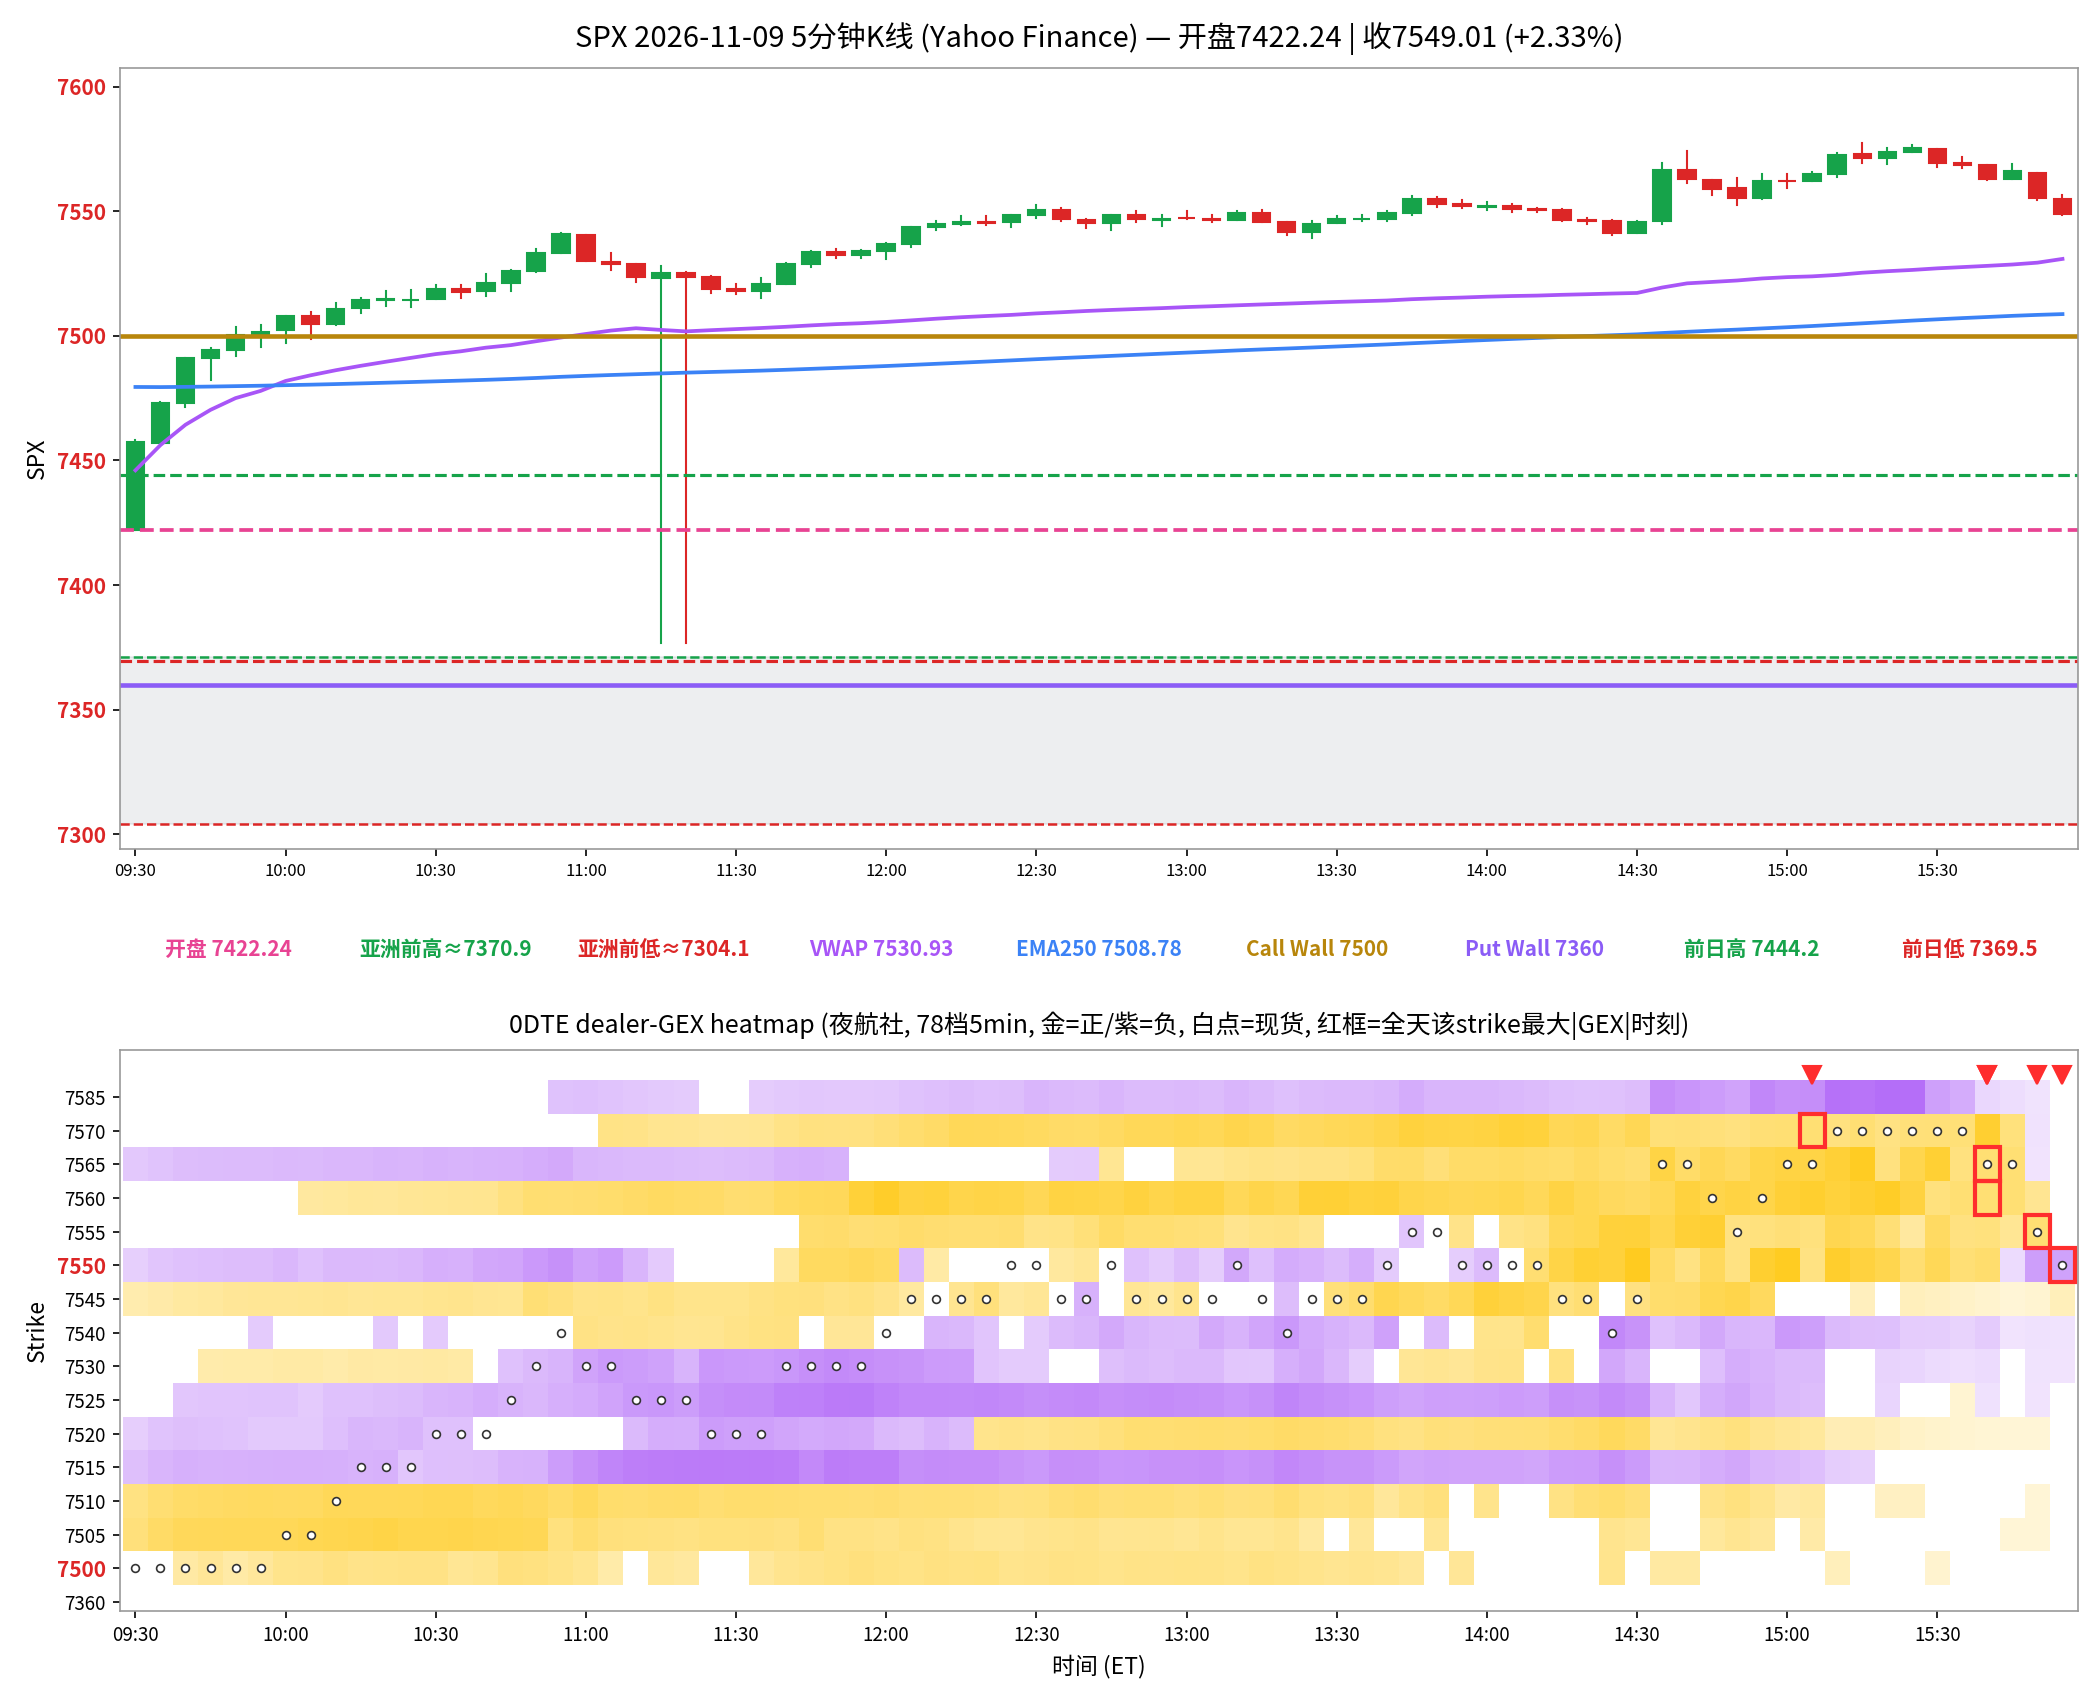
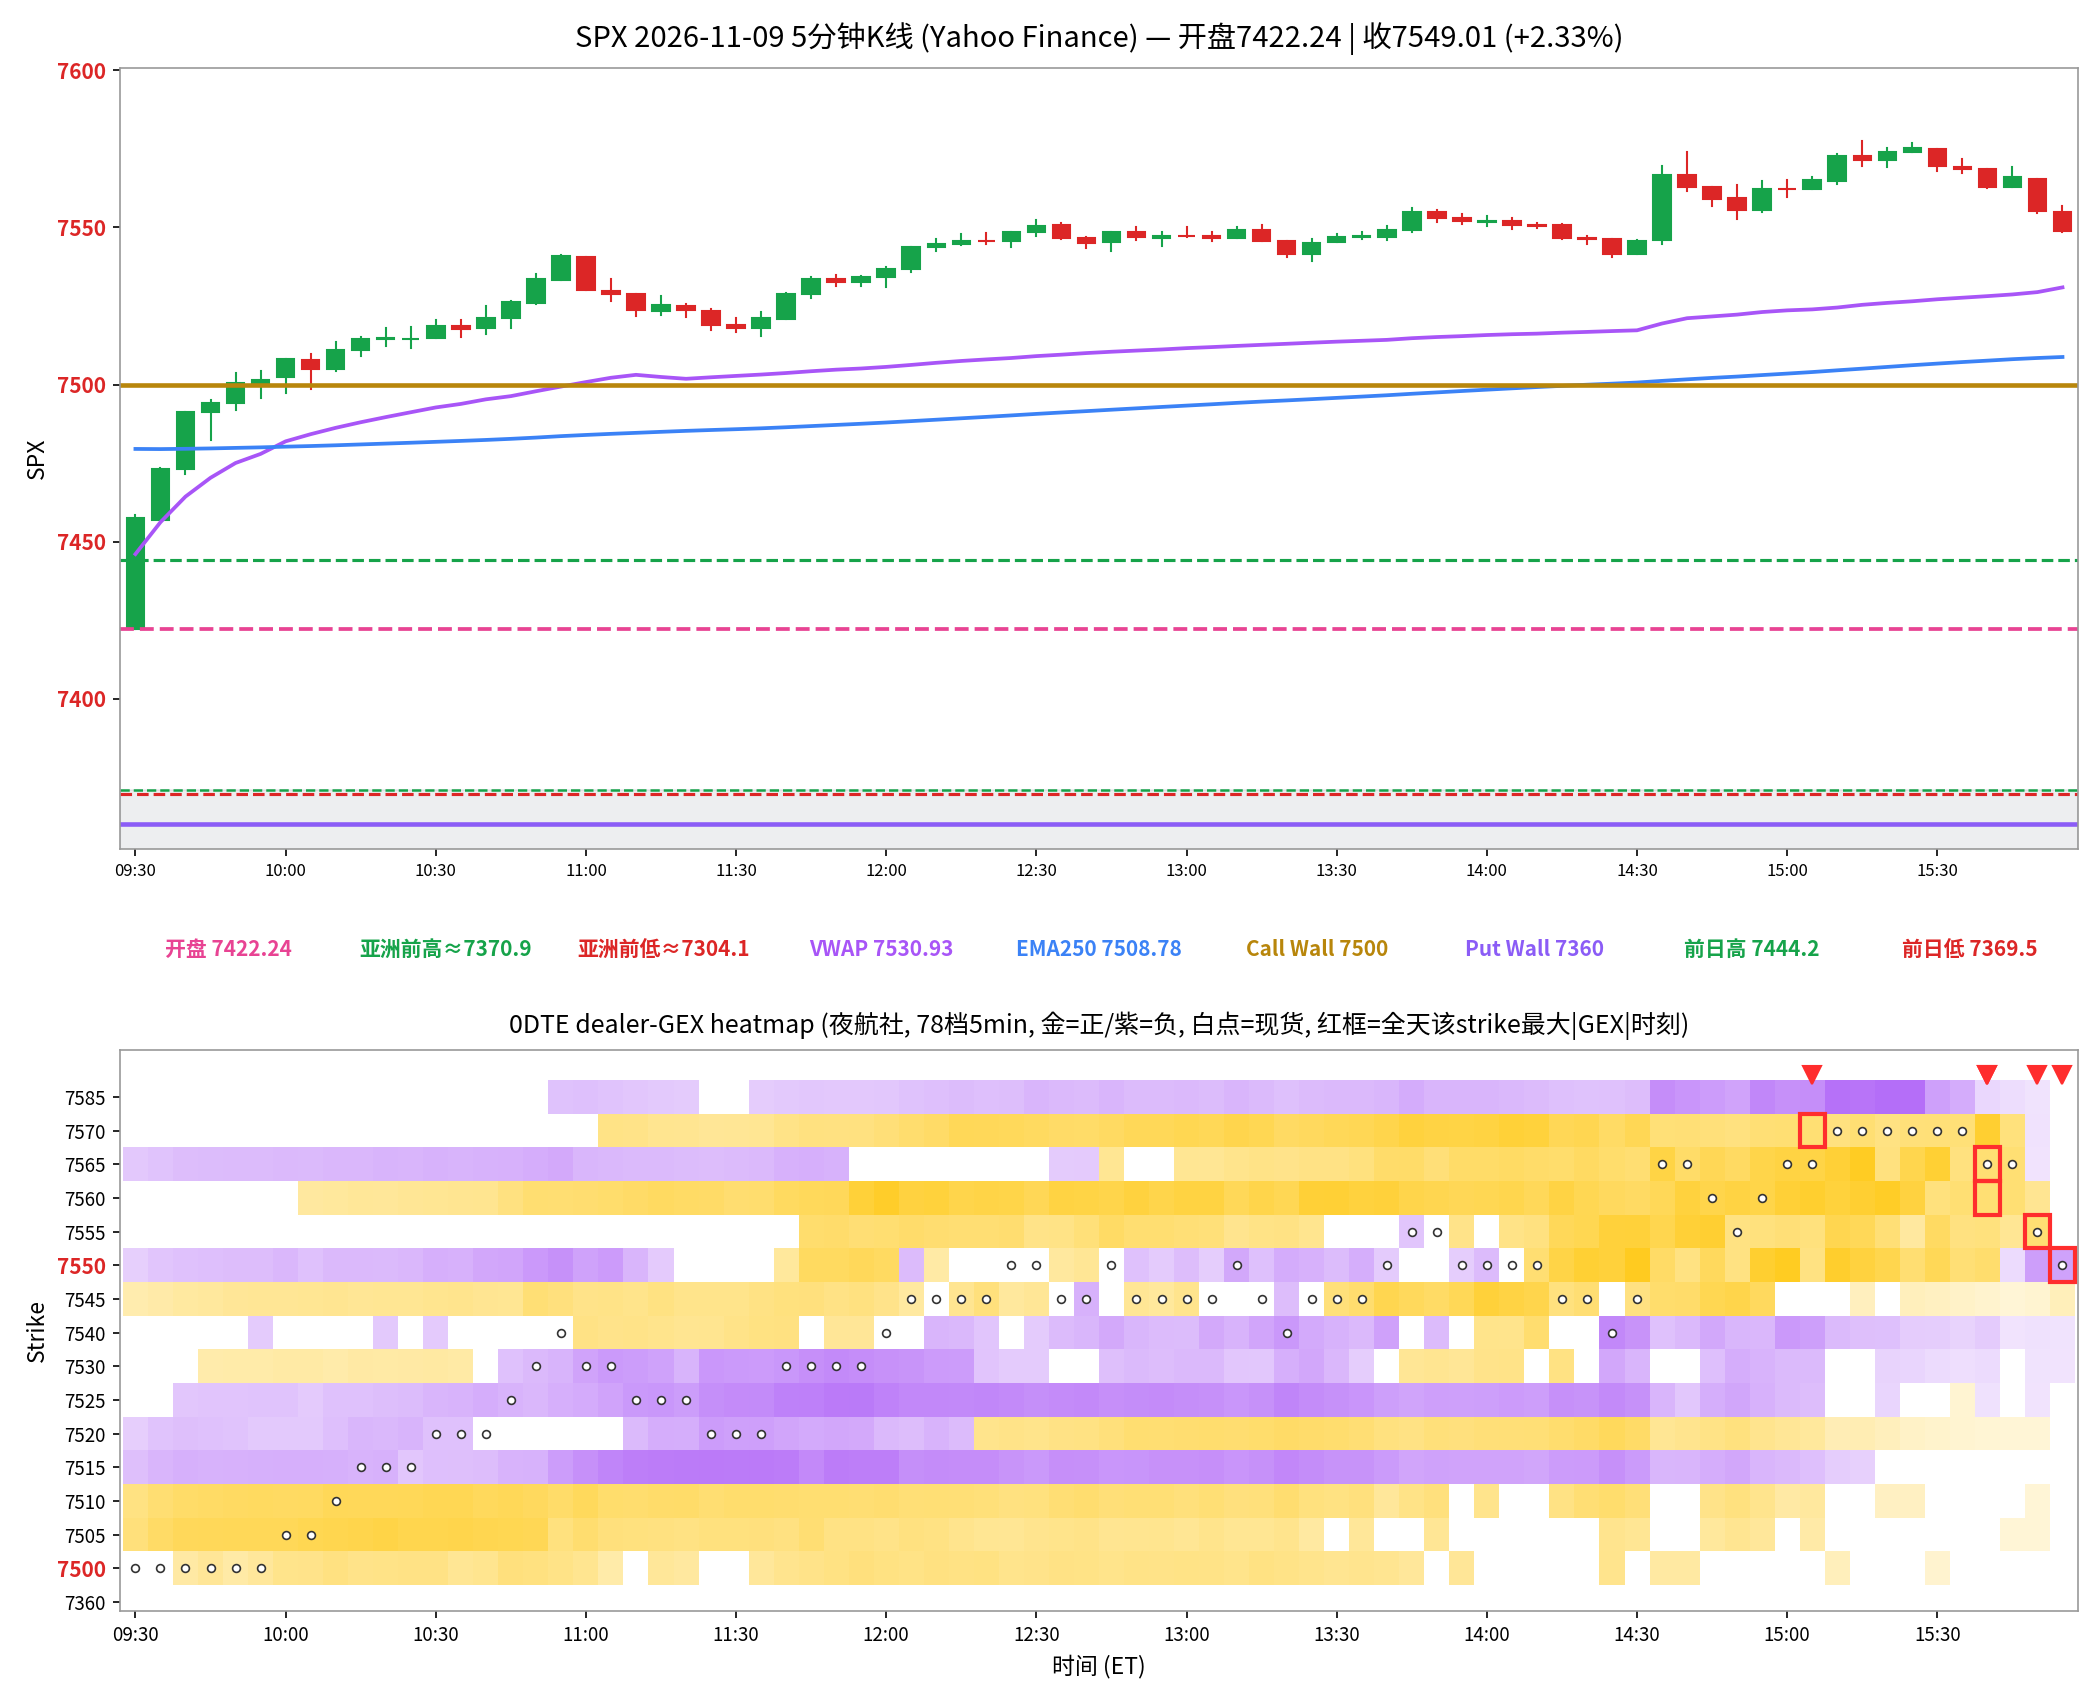
修 11-09 SPX K线坏 tick: 11:19/11:21 1m 坏 tick 致 11:15/11:20 5m 下影线 147 点, 日低 7376.86→7422.24

diff --git a/spx-intraday/all.html b/spx-intraday/all.html
@@ -52,7 +52,7 @@
 <h1 style="margin:0 0 4px">SPX 日内报告</h1>
 <p class="data-note">历史数据库：每日收盘后追加当日报告，历史日期永久保留。</p>
 <nav class="day-tabs" role="tablist" aria-label="日期">
-<a class="day-tab" role="tab" data-target="day-1109" aria-selected="true" href="#day-1109">11/9 周一 <span class="tab-move up">200.53</span></a>
+<a class="day-tab" role="tab" data-target="day-1109" aria-selected="true" href="#day-1109">11/9 周一 <span class="tab-move up">155.15</span></a>
 <a class="day-tab" role="tab" data-target="day-1106" aria-selected="false" href="#day-1106">11/6 周五 <span class="tab-move up">74.65</span></a>
 <a class="day-tab" role="tab" data-target="day-1105" aria-selected="false" href="#day-1105">11/5 周四 <span class="tab-move down">330.34</span></a>
 <a class="day-tab" role="tab" data-target="day-1104" aria-selected="false" href="#day-1104">11/4 周三 <span class="tab-move up">79.76</span></a>
@@ -140,7 +140,7 @@
 <p class="date">2026年11月9日 · 周一 · 日内报告</p>
 </div><div class="tape">
 <strong>7,549.01 <span class="up">+2.33%</span></strong>
-<span>开 7,422.24 · 高 7,577.39 · 低 7,376.86</span>
+<span>开 7,422.24 · 高 7,577.39 · 低 7,422.24</span>
 </div></header>
 <aside class="event">
 <div class="event-tag quiet">非事件日</div>
@@ -163,7 +163,7 @@
 <ul>
 <li>金色带在 7545(+57M)</li>
 <li>紫色带在 7550(-7642M)</li>
-<li>白点轨迹: 开 7422.24→高 7577.39→低 7376.86→收 7549.01（2.33%）；收盘在 call wall 7500 上方，put wall 7360 上方</li>
+<li>白点轨迹: 开 7422.24→高 7577.39→低 7422.24→收 7549.01（2.33%）；收盘在 call wall 7500 上方，put wall 7360 上方</li>
 <li>尾盘节点变化: 前三节点迁移 [7550, 7555, 7570]→[7535, 7545, 7550]；7550 减弱 -489%（1967M→-7642M）；7545 减弱 -94%（1023M→57M）；7535 增厚 +100%（-305M→-0M）</li>
 </ul>
 </div>
@@ -247,7 +247,7 @@
 </div>
 <div class="summary-list">
 <article class="summary-item"><p>①开盘 7422.24，相对 call wall 7500 位置：墙下；put wall 7360。</p></article>
-<article class="summary-item"><p>②白点轨迹: 开 7422.24→高 7577.39→低 7376.86→收 7549.01（2.33%）；收盘在 call wall 7500 上方，put wall 7360 上方</p></article>
+<article class="summary-item"><p>②白点轨迹: 开 7422.24→高 7577.39→低 7422.24→收 7549.01（2.33%）；收盘在 call wall 7500 上方，put wall 7360 上方</p></article>
 <article class="summary-item"><p>③尾盘节点变化: 前三节点迁移 [7550, 7555, 7570]→[7535, 7545, 7550]；7550 减弱 -489%（1967M→-7642M）；7545 减弱 -94%（1023M→57M）；7535 增厚 +100%（-305M→-0M）</p></article>
 <article class="summary-item"><p>④flow 印证：中性（bull 7.63M / bear 7.45M）；最大簇 7550C 1.91M（ATM，spot≈7555.0；ask 1.43M / bid 0.49M / mid 0.0M）。</p></article>
 <article class="summary-item"><p>⑤收盘 7549.01（2.33%），VWAP 7530.93，EMA250 7508.78；非事件日</p></article>

diff --git a/spx-intraday/2026-11-09.html b/spx-intraday/2026-11-09.html
@@ -55,7 +55,7 @@
 <p class="date">2026年11月9日 · 周一 · 日内报告</p>
 </div><div class="tape">
 <strong>7,549.01 <span class="up">+2.33%</span></strong>
-<span>开 7,422.24 · 高 7,577.39 · 低 7,376.86</span>
+<span>开 7,422.24 · 高 7,577.39 · 低 7,422.24</span>
 </div></header>
 <aside class="event">
 <div class="event-tag quiet">非事件日</div>
@@ -78,7 +78,7 @@
 <ul>
 <li>金色带在 7545(+57M)</li>
 <li>紫色带在 7550(-7642M)</li>
-<li>白点轨迹: 开 7422.24→高 7577.39→低 7376.86→收 7549.01（2.33%）；收盘在 call wall 7500 上方，put wall 7360 上方</li>
+<li>白点轨迹: 开 7422.24→高 7577.39→低 7422.24→收 7549.01（2.33%）；收盘在 call wall 7500 上方，put wall 7360 上方</li>
 <li>尾盘节点变化: 前三节点迁移 [7550, 7555, 7570]→[7535, 7545, 7550]；7550 减弱 -489%（1967M→-7642M）；7545 减弱 -94%（1023M→57M）；7535 增厚 +100%（-305M→-0M）</li>
 </ul>
 </div>
@@ -162,7 +162,7 @@
 </div>
 <div class="summary-list">
 <article class="summary-item"><p>①开盘 7422.24，相对 call wall 7500 位置：墙下；put wall 7360。</p></article>
-<article class="summary-item"><p>②白点轨迹: 开 7422.24→高 7577.39→低 7376.86→收 7549.01（2.33%）；收盘在 call wall 7500 上方，put wall 7360 上方</p></article>
+<article class="summary-item"><p>②白点轨迹: 开 7422.24→高 7577.39→低 7422.24→收 7549.01（2.33%）；收盘在 call wall 7500 上方，put wall 7360 上方</p></article>
 <article class="summary-item"><p>③尾盘节点变化: 前三节点迁移 [7550, 7555, 7570]→[7535, 7545, 7550]；7550 减弱 -489%（1967M→-7642M）；7545 减弱 -94%（1023M→57M）；7535 增厚 +100%（-305M→-0M）</p></article>
 <article class="summary-item"><p>④flow 印证：中性（bull 7.63M / bear 7.45M）；最大簇 7550C 1.91M（ATM，spot≈7555.0；ask 1.43M / bid 0.49M / mid 0.0M）。</p></article>
 <article class="summary-item"><p>⑤收盘 7549.01（2.33%），VWAP 7530.93，EMA250 7508.78；非事件日</p></article>
